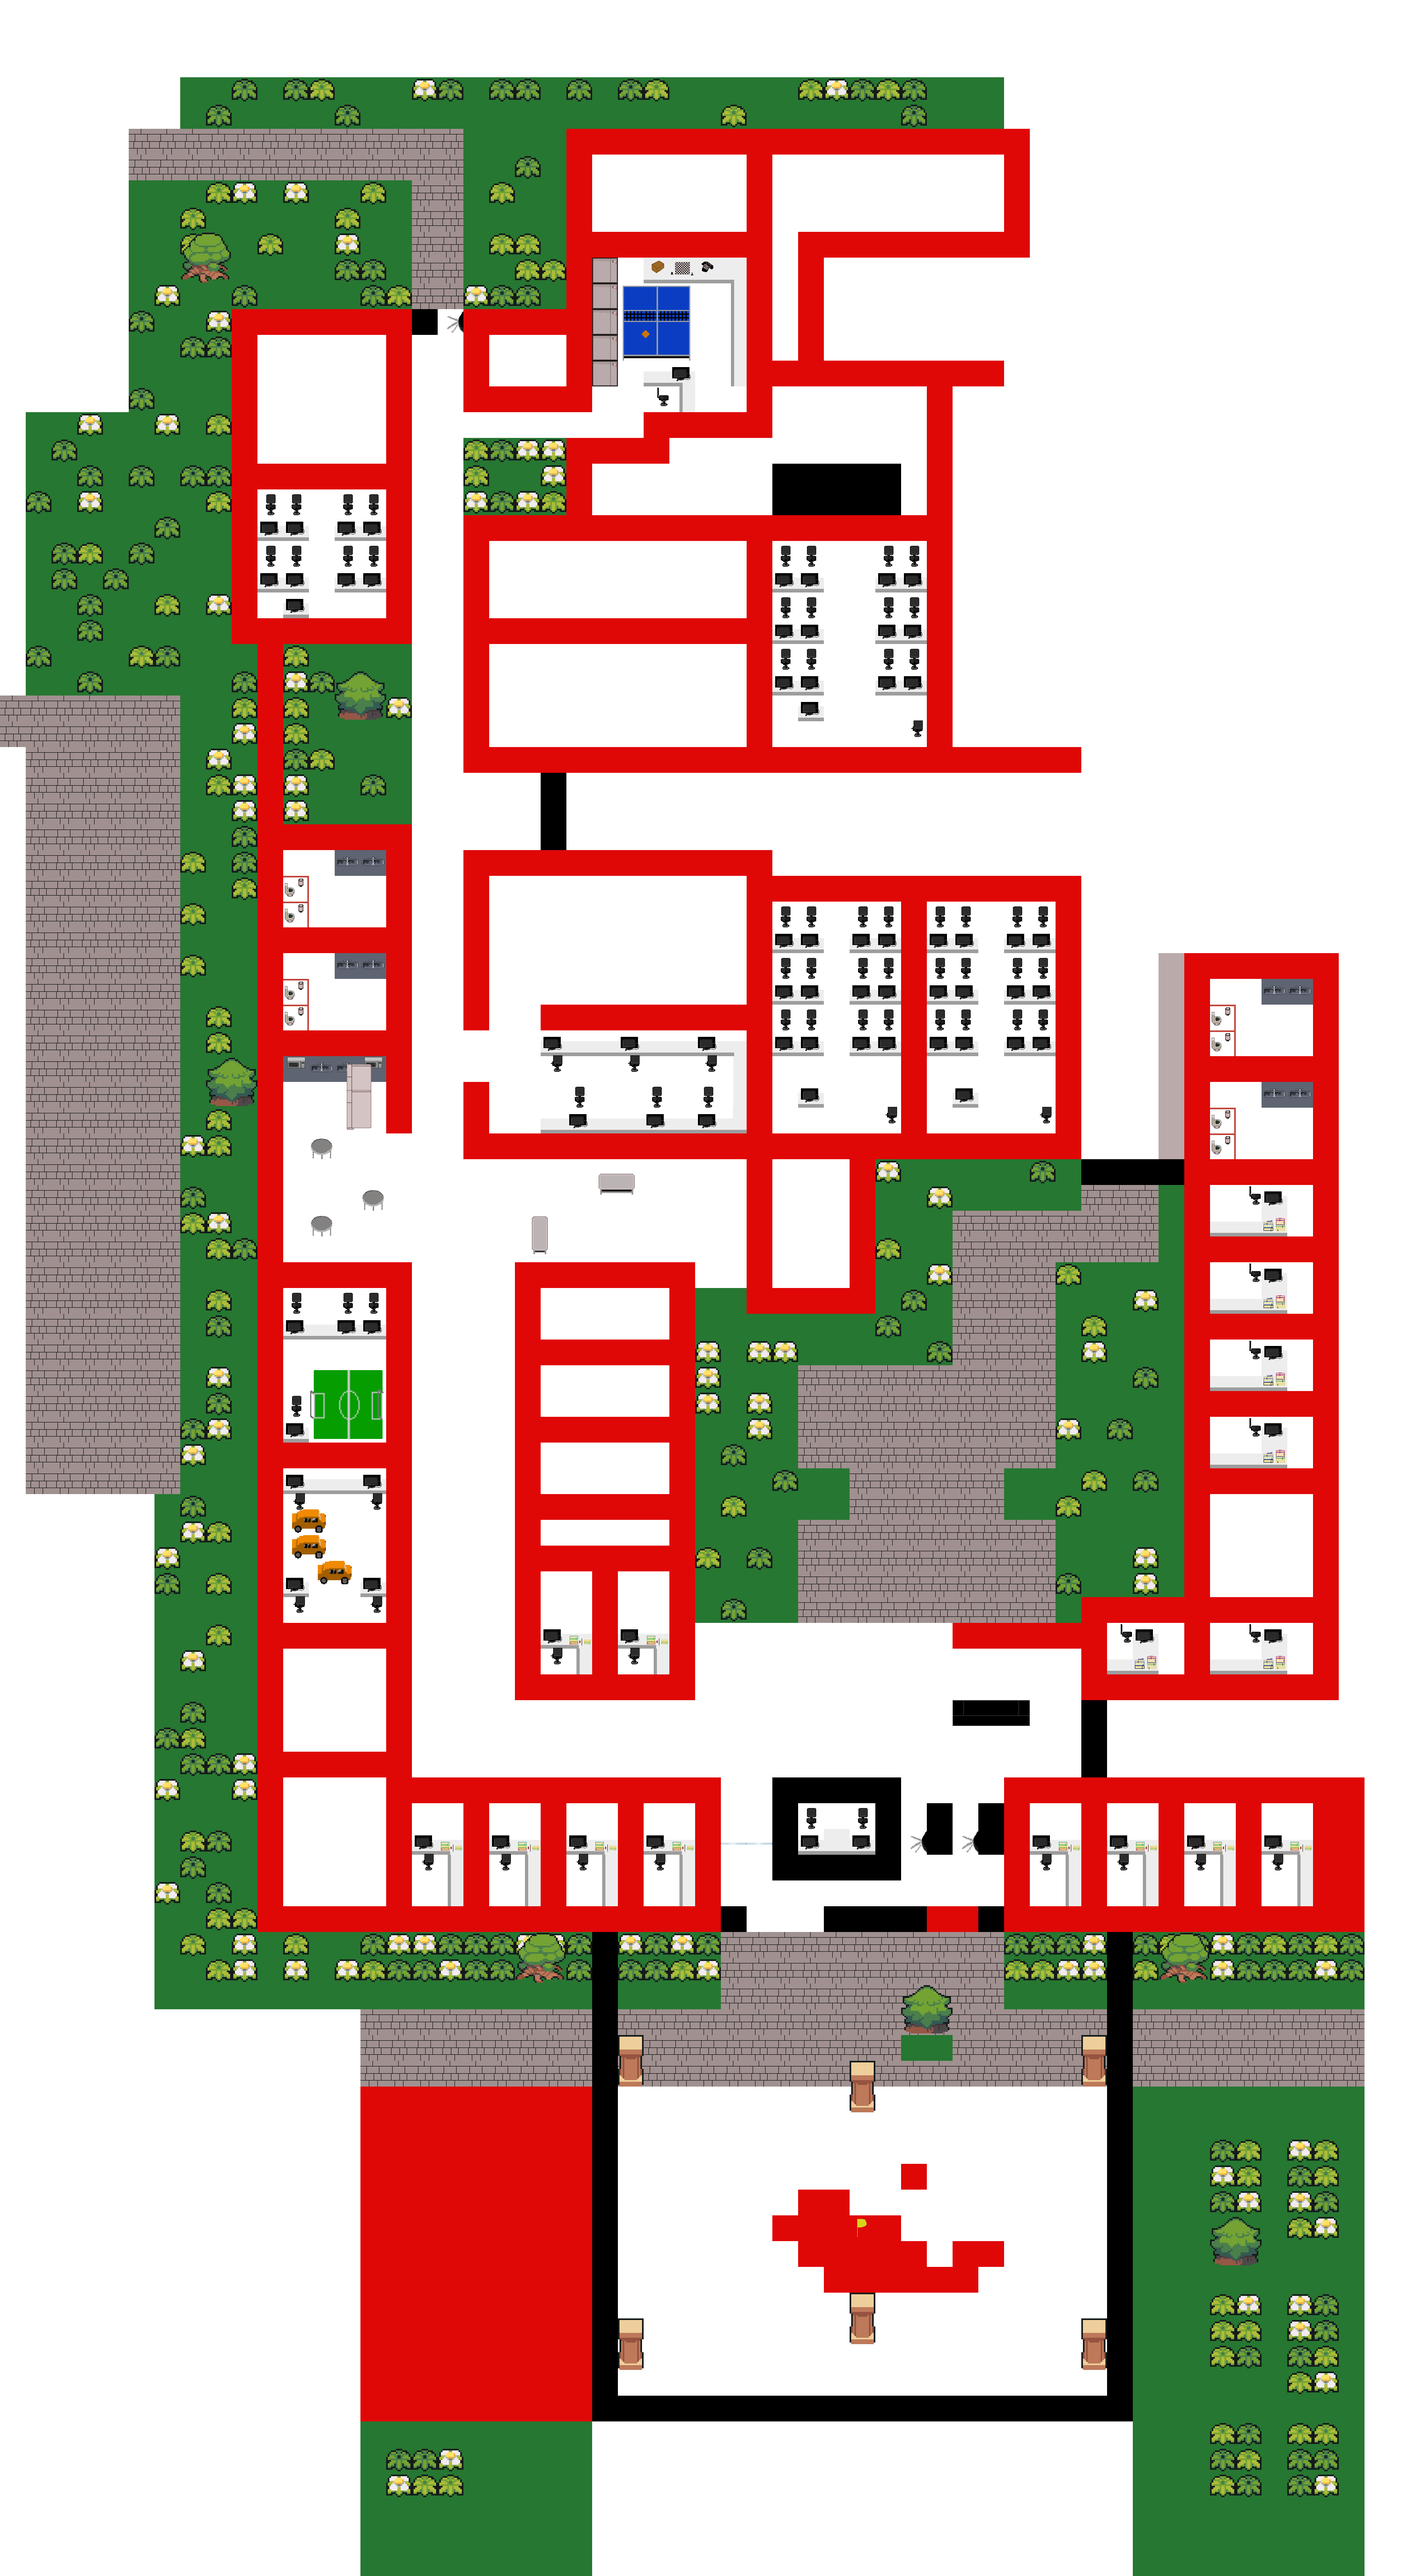
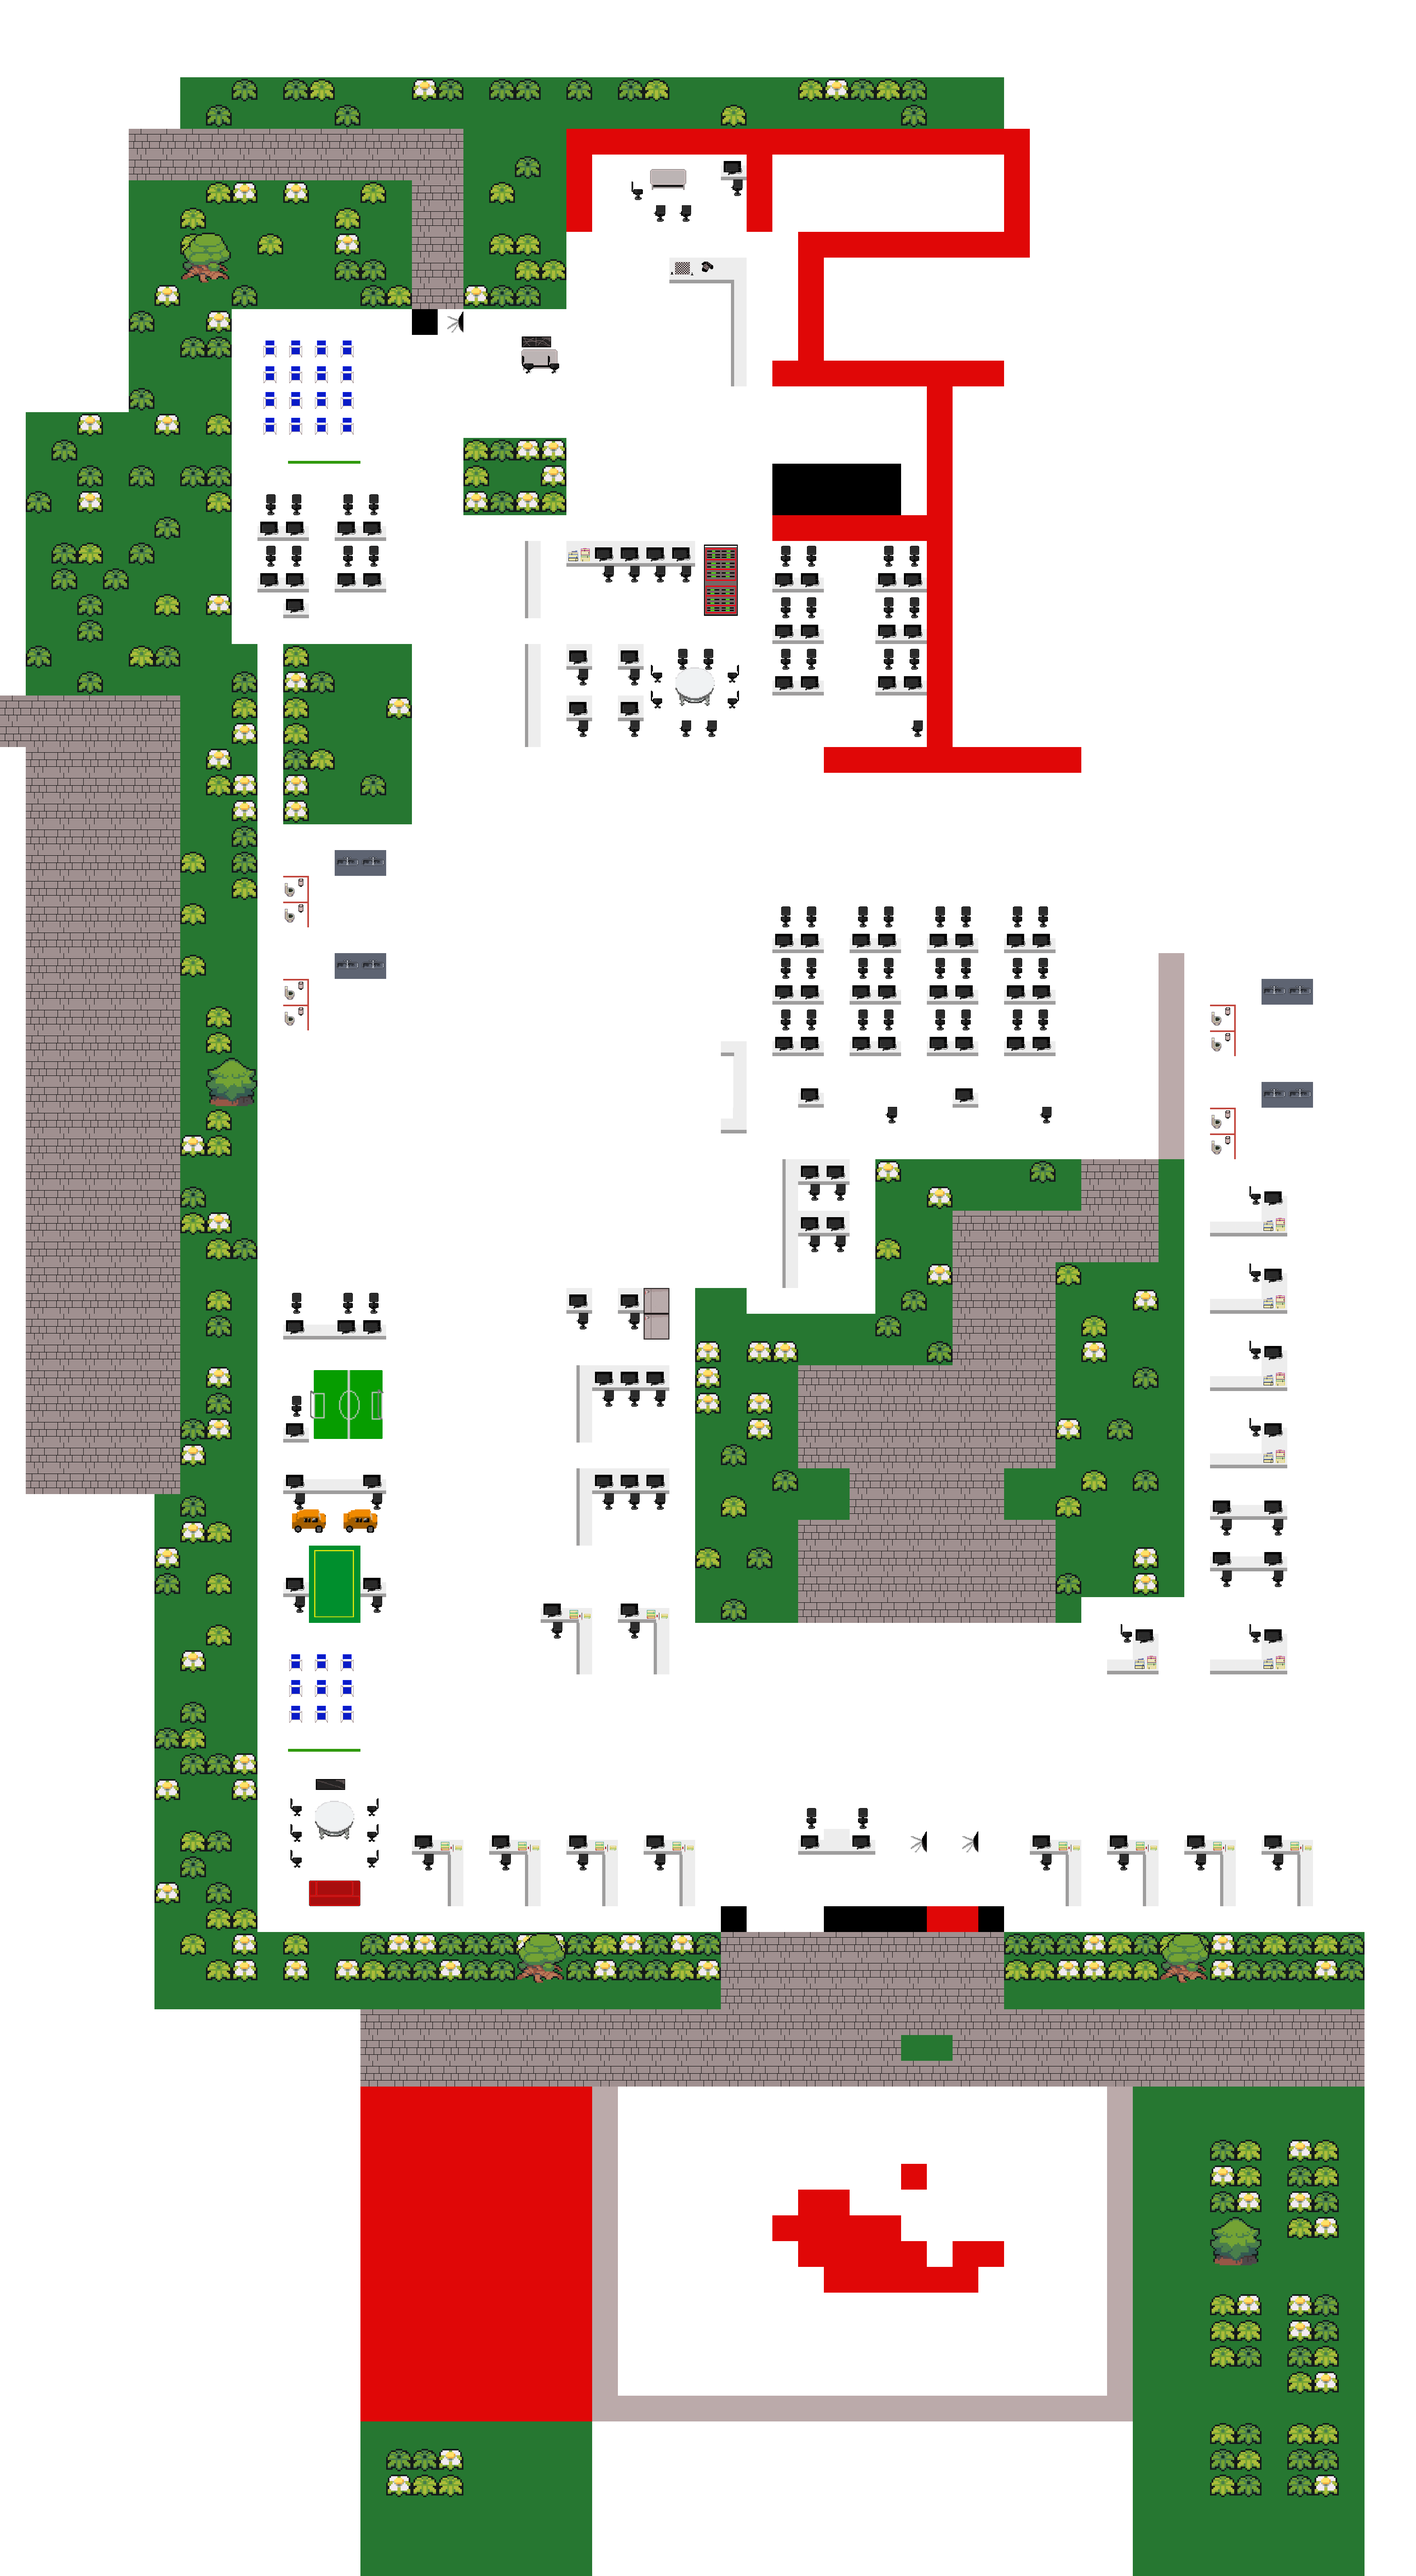
mapa para entrega

Changed region(s): [[0.1562, 0.0625, 0.9688, 0.9375]]

diff --git a/level.py b/level.py
@@ -51,33 +51,110 @@ class Level:
                         if style == 'boundary':
                             Obstaculo((x,y), [self.sprites_obstaculos], 'none')       
                         if style == 'obstacle' and coluna == '11':
-                                surf = pygame.image.load('graphics/objects/12.png')
+                            surf = pygame.image.load('graphics/objects/12.png')
+                            Obstaculo((x,y), [self.sprites_visiveis,self.sprites_obstaculos],'object',surf)
                         if style == 'obstacle' and coluna == '12':
                             surf = pygame.image.load('graphics/objects/04.png')
                             Obstaculo((x,y), [self.sprites_visiveis,self.sprites_obstaculos],'object',surf)
                         if style == 'obstacle' and coluna == '13':
                             surf = pygame.image.load('graphics/objects/03.png')
                             Obstaculo((x,y), [self.sprites_visiveis,self.sprites_obstaculos],'object',surf)
-                        if style == 'obstacle':
-                            if coluna == '2':
-                                surf = pygame.image.load('graphics/blocks/boundary_block.png')
-                            elif coluna == '4':
-                                surf = pygame.image.load('graphics/blocks/red_block.png')
-                            elif coluna == '9':
-                                surf = pygame.image.load('graphics/blocks/wall_block.png')
-                            elif coluna == '16':
-                                surf = pygame.image.load('graphics/spritespiskel/catraca.png')
-                            elif coluna == '18':
-                                surf = pygame.image.load('graphics/spritespiskel/mesa.png')
-                            Obstaculo((x,y), [self.sprites_visiveis,self.sprites_obstaculos],'none',surf)
+                        if style == 'obstacle' and coluna == '2':
+                            surf = pygame.image.load('graphics/blocks/boundary_block.png')
+                            Obstaculo((x,y), [self.sprites_visiveis,self.sprites_obstaculos],'object',surf)
+                        if style == 'obstacle' and coluna == '4':
+                            surf = pygame.image.load('graphics/blocks/red_block.png')
+                            Obstaculo((x,y), [self.sprites_visiveis,self.sprites_obstaculos],'object',surf)
+                        if style == 'obstacle' and coluna == '28':
+                            surf = pygame.image.load('graphics/spritespiskel/glass-top.png')
+                            Obstaculo((x,y), [self.sprites_visiveis,self.sprites_obstaculos],'object',surf)
+                        if style == 'obstacle' and coluna == '133':
+                            surf = pygame.image.load('graphics/spritespiskel/mesa hall.png')
+                            Obstaculo((x,y), [self.sprites_visiveis,self.sprites_obstaculos],'object',surf)
+                        if style == 'obstacle' and coluna == '138':
+                            surf = pygame.image.load('graphics/spritespiskel/mesapicnic.png')
+                            Obstaculo((x,y), [self.sprites_visiveis,self.sprites_obstaculos],'object',surf)
+                        if style == 'obstacle' and coluna == '137':
+                            surf = pygame.image.load('graphics/spritespiskel/escadaria.png')
+                            Obstaculo((x,y), [self.sprites_visiveis,self.sprites_obstaculos],'object',surf)
+                        if style == 'obstacle' and coluna == '142':
+                            surf = pygame.image.load('graphics/spritespiskel/placa.png')
+                            Obstaculo((x,y), [self.sprites_visiveis,self.sprites_obstaculos],'object',surf)
+                        if style == 'obstacle' and coluna == '84':
+                            surf = pygame.image.load('graphics/spritespiskel/couch.png')
+                            Obstaculo((x,y), [self.sprites_visiveis,self.sprites_obstaculos],'object',surf)
+                        if style == 'obstacle' and coluna == '89':
+                            surf = pygame.image.load('graphics/spritespiskel/chair.png')
+                            Obstaculo((x,y), [self.sprites_visiveis,self.sprites_obstaculos],'object',surf)
+                        if style == 'obstacle' and coluna == '97':
+                            surf = pygame.image.load('graphics/spritespiskel/chair (3).png')
+                            Obstaculo((x,y), [self.sprites_visiveis,self.sprites_obstaculos],'object',surf)
+                        if style == 'obstacle' and coluna == '44':
+                            surf = pygame.image.load('graphics/spritespiskel/microondas.png')
+                            Obstaculo((x,y), [self.sprites_visiveis,self.sprites_obstaculos],'object',surf)
+                        if style == 'obstacle' and coluna == '45':
+                            surf = pygame.image.load('graphics/spritespiskel/sink.png')
+                            Obstaculo((x,y), [self.sprites_visiveis,self.sprites_obstaculos],'object',surf)
+                        if style == 'obstacle' and coluna == '22':
+                            surf = pygame.image.load('graphics/spritespiskel/Rect Table.png')
+                            Obstaculo((x,y), [self.sprites_visiveis,self.sprites_obstaculos],'object',surf)
+                        if style == 'obstacle' and coluna == '47':
+                            surf = pygame.image.load('graphics/spritespiskel/rect table y.png')
+                            Obstaculo((x,y), [self.sprites_visiveis,self.sprites_obstaculos],'object',surf)
+                        if style == 'obstacle' and coluna == '107':
+                            surf = pygame.image.load('graphics/spritespiskel/chair copa(2).png')
+                            Obstaculo((x,y), [self.sprites_visiveis,self.sprites_obstaculos],'object',surf)
+                        if style == 'obstacle' and coluna == '108':
+                            surf = pygame.image.load('graphics/spritespiskel/chair copa(1).png')
+                            Obstaculo((x,y), [self.sprites_visiveis,self.sprites_obstaculos],'object',surf)
+                        if style == 'obstacle' and coluna == '110':
+                            surf = pygame.image.load('graphics/spritespiskel/chair copa(3).png')
+                            Obstaculo((x,y), [self.sprites_visiveis,self.sprites_obstaculos],'object',surf)
+                        if style == 'obstacle' and coluna == '145':
+                            surf = pygame.image.load('graphics/spritespiskel/refrigerator.png')
+                            Obstaculo((x,y), [self.sprites_visiveis,self.sprites_obstaculos],'object',surf)
+                        if style == 'obstacle' and coluna == '91':
+                            surf = pygame.image.load('graphics/spritespiskel/chair (2).png')
+                            Obstaculo((x,y), [self.sprites_visiveis,self.sprites_obstaculos],'object',surf)
+                        if style == 'obstacle' and coluna == '52':
+                            surf = pygame.image.load('graphics/spritespiskel/mesa pc.png')
+                            Obstaculo((x,y), [self.sprites_visiveis,self.sprites_obstaculos],'object',surf)
+                        if style == 'obstacle' and coluna == '17':
+                            surf = pygame.image.load('graphics/spritespiskel/computador.png')
+                            Obstaculo((x,y), [self.sprites_visiveis,self.sprites_obstaculos],'object',surf)
+                        if style == 'obstacle' and coluna == '141':
+                            surf = pygame.image.load('graphics/spritespiskel/data center.png')
+                            Obstaculo((x,y), [self.sprites_visiveis,self.sprites_obstaculos],'object',surf)
+                        if style == 'obstacle' and coluna == '66':
+                            surf = pygame.image.load('graphics/spritespiskel/armario da.png')
+                            Obstaculo((x,y), [self.sprites_visiveis,self.sprites_obstaculos],'object',surf)
+                        if style == 'obstacle' and coluna == '78':
+                            surf = pygame.image.load('graphics/spritespiskel/mesa da caixa.png')
+                            Obstaculo((x,y), [self.sprites_visiveis,self.sprites_obstaculos],'object',surf)
+                        if style == 'obstacle' and coluna == '61':
+                            surf = pygame.image.load('graphics/spritespiskel/mesa ping pong.png')
+                            Obstaculo((x,y), [self.sprites_visiveis,self.sprites_obstaculos],'object',surf)
+                        if style == 'obstacle' and coluna == '18':
+                            surf = pygame.image.load('graphics/spritespiskel/mesa.png')
+                            Obstaculo((x,y), [self.sprites_visiveis,self.sprites_obstaculos],'object',surf)
+                        if style == 'obstacle' and coluna == '67':
+                            surf = pygame.image.load('graphics/spritespiskel/computador (2).png')
+                            Obstaculo((x,y), [self.sprites_visiveis,self.sprites_obstaculos],'object',surf)
+                        if style == 'obstacle' and coluna == '127':
+                            surf = pygame.image.load('graphics/spritespiskel/cadeira convivencia.png')
+                            Obstaculo((x,y), [self.sprites_visiveis,self.sprites_obstaculos],'object',surf)
+                        if style == 'obstacle' and coluna == '72':
+                            surf = pygame.image.load('graphics/spritespiskel/mesa pc (5).png')
+                            Obstaculo((x,y), [self.sprites_visiveis,self.sprites_obstaculos],'object',surf)
                             
-        
+                        
+
         #INTERFACE DO PERSONAGEM.
         self.ui = Interface_usuario()
 
 
         # Desenho do personagem no início
-        self.personagem = Personagem((2500,5000),[self.sprites_visiveis],self.sprites_obstaculos, self.criar_ataque)
+        self.personagem = Personagem((1500,2200),[self.sprites_visiveis],self.sprites_obstaculos, self.criar_ataque)
 
 
         # Coletáveis no início

diff --git a/player.py b/player.py
@@ -40,7 +40,7 @@ class Personagem(pygame.sprite.Sprite):
         }
 
         #STATUS DO PERSONAGEM.
-        self.status_saude = {'saude': 100}
+        self.status_saude = {'saude': 10000}
         self.saude_atual = self.status_saude['saude']
         self.razao = self.saude_atual / largura_barra_vida
 
